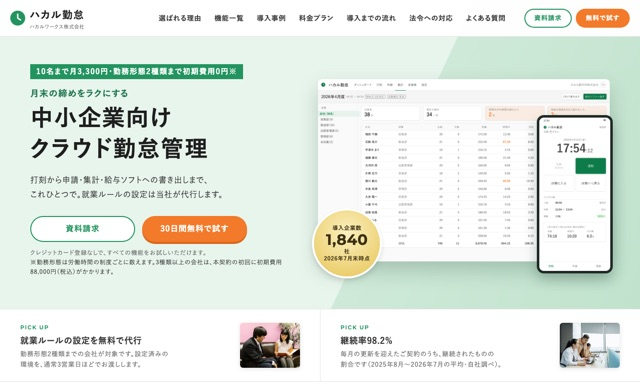
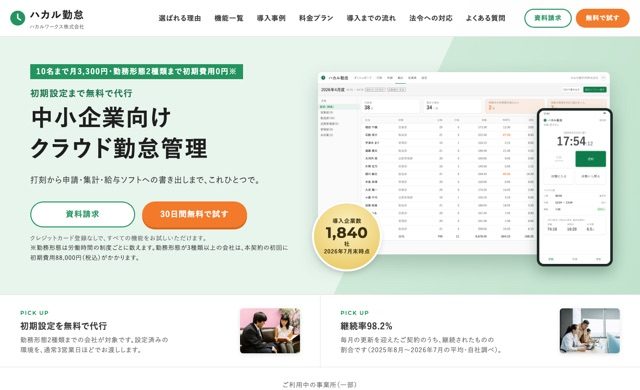
勤怠管理の見本を出し直す

diff --git a/lp-samples/sample4/index.html b/lp-samples/sample4/index.html
@@ -4,11 +4,11 @@
 <meta charset="UTF-8">
 <meta name="robots" content="noindex, nofollow">
 <meta name="viewport" content="width=device-width, initial-scale=1">
-<title>クラウド勤怠管理システム「ハカル勤怠」｜月末の締めをラクにする</title>
+<title>クラウド勤怠管理システム「ハカル勤怠」｜初期設定まで無料で代行</title>
 <meta name="description" content="中小企業向けのクラウド勤怠管理システム「ハカル勤怠」。打刻から申請・集計・給与ソフトへの書き出しまで、これひとつで。10名まで月3,300円、勤務形態2種類まで初期費用0円。30日間すべての機能を無料でお試しいただけます。">
 <meta property="og:type" content="website">
 <meta property="og:site_name" content="ハカル勤怠">
-<meta property="og:title" content="クラウド勤怠管理システム「ハカル勤怠」｜月末の締めをラクにする">
+<meta property="og:title" content="クラウド勤怠管理システム「ハカル勤怠」｜初期設定まで無料で代行">
 <meta property="og:description" content="打刻から申請・集計・給与ソフトへの書き出しまで。10名まで月3,300円、30日間の無料トライアルつき。">
 <meta name="twitter:card" content="summary_large_image">
 <link rel="icon" href="https://cdn.jsdelivr.net/npm/@fortawesome/fontawesome-free@6.7.2/svgs/solid/clock.svg" type="image/svg+xml">
@@ -125,7 +125,8 @@ ul,ol{padding:0;list-style:none}
 .solve__box li b{flex:none;display:flex;align-items:center;justify-content:center;width:52px;height:52px;border-radius:50%;background:var(--ink);font-size:14px;box-shadow:0 0 0 3px #fff}
 
 /* 選ばれる理由。写真と文を左右に振り、大きな番号を薄く敷く */
-.reason__item{display:grid;grid-template-columns:1fr 1fr;gap:60px;align-items:center}
+.reason__item{display:grid;grid-template-columns:5fr 6fr;gap:60px;align-items:center}
+.reason__item:nth-child(even){grid-template-columns:6fr 5fr}
 .reason__item+.reason__item{margin-top:90px}
 .reason__item:nth-child(even) .reason__media{order:2}
 .reason__media img{border-radius:10px;box-shadow:0 10px 26px rgba(0,0,0,.12)}
@@ -178,7 +179,7 @@ ul,ol{padding:0;list-style:none}
 .case__item p:not([class]){font-size:13px;color:var(--mute)}
 
 /* 料金 */
-.price{background:var(--main)}
+.price{background:var(--main-d)}
 .price .h2_ttl{color:#fff}
 .price .h2_ttl .sub_ttl{color:#d9f2e2}
 .price__box{position:relative;max-width:900px;margin:0 auto;padding:48px 50px 40px;background:#fff;border-radius:14px}
@@ -420,13 +421,13 @@ h1,h2,h3,blockquote,.solve__box li,.check li,.func__item p{word-break:auto-phras
   <div class="mv__inner">
     <div>
       <p class="mv__label"><span class="nw">10名</span>まで月3,300円・<span class="nw">勤務形態2種類まで初期費用0円※</span></p>
-      <h1><small>月末の締めをラクにする</small>中小企業向け<br><span class="nw">クラウド</span>勤怠管理</h1>
-      <p class="mv__lead">打刻から申請・集計・給与<span class="nw">ソフト</span>への書き出しまで、これひとつで。就業<span class="nw">ルール</span>の設定は当社が代行します。</p>
+      <h1><small>初期設定まで無料で代行</small>中小企業向け<br><span class="nw">クラウド</span>勤怠管理</h1>
+      <p class="mv__lead">打刻から申請・集計・給与<span class="nw">ソフト</span>への書き出しまで、これひとつで。</p>
       <div class="mv__btns">
         <a class="btn btn--line gtm-cta" href="#entry" data-kind="doc">資料請求</a>
         <a class="btn btn--cta gtm-cta" href="#entry" data-kind="trial">30日間無料で試す</a>
       </div>
-      <p class="mv__note"><span class="nw">クレジットカード</span>登録なしで、すべての機能をお試しいただけます。<br><span class="mv__terms">※勤務形態は労働時間の制度ごとに数えます。3種類以上の会社は、本契約の初回に初期費用<span class="nw">88,000円</span>（税込）がかかります。</span></p>
+      <p class="mv__note"><span class="nw">クレジットカード</span>登録なしで、すべての機能をお試しいただけます。<br><span class="mv__terms">※勤務形態は労働時間の制度ごとに数えます。勤務形態が3種類以上の会社は、本契約の初回に初期費用<span class="nw">88,000円</span>（税込）がかかります。</span></p>
     </div>
     <div class="mv__visual">
       <img class="mv__pc" src="img/app_pc.png" alt="従業員ごとの実働と時間外が並ぶ勤怠の集計画面" fetchpriority="high">
@@ -436,7 +437,7 @@ h1,h2,h3,blockquote,.solve__box li,.check li,.func__item p{word-break:auto-phras
   </div>
   <div class="pickup">
     <div class="pickup__item">
-      <div><small>PICK UP</small><h2>就業<span class="nw">ルール</span>の設定を無料で代行</h2><p>勤務形態2種類までの会社が対象です。設定済みの環境を、通常<span class="nw">3営業日</span>ほどでお渡しします。</p></div>
+      <div><small>PICK UP</small><h2>初期設定を無料で代行</h2><p>勤務形態2種類までの会社が対象です。設定済みの環境を、通常<span class="nw">3営業日</span>ほどでお渡しします。</p></div>
       <img src="img/pickup.jpg" alt="ソファでの書類の確認">
     </div>
     <div class="pickup__item">
@@ -459,8 +460,8 @@ h1,h2,h3,blockquote,.solve__box li,.check li,.func__item p{word-break:auto-phras
     <h2 class="h2_ttl">勤怠管理のお悩み</h2>
     <ul class="worry__list">
       <li class="worry__item scrollanime"><span class="worry__no"><small>悩み</small>01</span><p>毎月<span class="nw">3日間</span>かかる<br>集計作業</p><i class="fa-solid fa-hourglass-half" aria-hidden="true"></i></li>
-      <li class="worry__item scrollanime"><span class="worry__no"><small>悩み</small>02</span><p>部署ごとの<br>打刻方法の違い</p><i class="fa-solid fa-building-user" aria-hidden="true"></i></li>
-      <li class="worry__item scrollanime"><span class="worry__no"><small>悩み</small>03</span><p>36協定の<br>超過リスク</p><i class="fa-solid fa-gauge-high" aria-hidden="true"></i></li>
+      <li class="worry__item scrollanime"><span class="worry__no"><small>悩み</small>02</span><p>部署ごとに<span class="nw">バラバラ</span>な<br>打刻と集計</p><i class="fa-solid fa-building-user" aria-hidden="true"></i></li>
+      <li class="worry__item scrollanime"><span class="worry__no"><small>悩み</small>03</span><p>36協定に<br>違反するおそれ</p><i class="fa-solid fa-gauge-high" aria-hidden="true"></i></li>
     </ul>
   </div>
 </section>
@@ -502,8 +503,8 @@ h1,h2,h3,blockquote,.solve__box li,.check li,.func__item p{word-break:auto-phras
       <div class="reason__media"><img src="img/support.jpg" alt="モニター前の打ち合わせ" loading="lazy"></div>
       <div class="reason__body">
         <span class="reason__num" aria-hidden="true">03</span>
-        <h3>就業<span class="nw">ルール</span>の<em>設定代行</em></h3>
-        <p>就業規則を拝見し、<span class="nw">1か月</span>単位・<span class="nw">1年</span>単位の変形労働時間制や<span class="nw">フレックスタイム</span>制も、そのとおりに設定してお渡しします。<span class="nw">トライアル</span>期間中から、お客様の就業<span class="nw">ルール</span>でご利用いただけます。</p>
+        <h3>初期設定の<em>代行</em></h3>
+        <p>お送りいただいた就業規則に合わせて、<span class="nw">1か月</span>単位・<span class="nw">1年</span>単位の変形労働時間制や<span class="nw">フレックスタイム</span>制も集計できるよう設定してお渡しします。<span class="nw">トライアル</span>期間中から、この設定のままご利用いただけます。</p>
         <ul class="check"><li>変形労働時間制・<span class="nw">フレックスタイム</span>制</li><li>給与<span class="nw">ソフト</span>の取り込み形式に合わせた書き出し設定</li></ul>
       </div>
     </div>
@@ -526,9 +527,9 @@ h1,h2,h3,blockquote,.solve__box li,.check li,.func__item p{word-break:auto-phras
       <div class="func__item scrollanime"><i class="fa-solid fa-id-card" aria-hidden="true"></i><h3>打刻</h3><p><span class="nw">パソコン</span>、<span class="nw">スマートフォン</span>、交通系IC<span class="nw">カード</span>や社員証で打刻できます。</p></div>
       <div class="func__item scrollanime"><i class="fa-solid fa-calculator" aria-hidden="true"></i><h3>自動集計</h3><p>実働・時間外・深夜・休日の時間を、従業員ごとに集計します。</p></div>
       <div class="func__item scrollanime"><i class="fa-solid fa-circle-check" aria-hidden="true"></i><h3>申請・承認</h3><p>休暇と時間外労働を申請でき、打刻の修正も依頼できます。承認は管理画面から行えます。</p></div>
-      <div class="func__item scrollanime"><i class="fa-solid fa-file-export" aria-hidden="true"></i><h3>給与<span class="nw">ソフト</span>への書き出し</h3><p>CSVで出力します。列の並びと項目名を、お使いの給与<span class="nw">ソフト</span>に合わせて設定できます。</p></div>
-      <div class="func__item scrollanime"><i class="fa-solid fa-triangle-exclamation" aria-hidden="true"></i><h3>時間外が上限に近づいた従業員名の色分け</h3><p>上限までの残り時間に応じて、一覧の従業員名を色分けして表示します。変形労働時間制や自動車運転業務の上限にも対応します。</p></div>
-      <div class="func__item scrollanime"><i class="fa-solid fa-book" aria-hidden="true"></i><h3>年次有給休暇管理簿</h3><p>基準日・日数・時季を記載した管理簿を出力できます。</p></div>
+      <div class="func__item scrollanime"><i class="fa-solid fa-file-export" aria-hidden="true"></i><h3>給与<span class="nw">ソフト</span>への書き出し</h3><p>CSVで書き出します。列の並びと項目名を、お使いの給与<span class="nw">ソフト</span>に合わせて設定できます。</p></div>
+      <div class="func__item scrollanime"><i class="fa-solid fa-triangle-exclamation" aria-hidden="true"></i><h3>残業アラート</h3><p>月の時間外労働が上限に近づいた時点と超えた時点で、一覧の従業員の名前を色分けして表示します。変形労働時間制や自動車運転業務の上限にも対応します。</p></div>
+      <div class="func__item scrollanime"><i class="fa-solid fa-book" aria-hidden="true"></i><h3>年次有給休暇管理簿</h3><p>基準日・日数・時季を記載した管理簿を書き出せます。</p></div>
       <div class="func__item scrollanime"><i class="fa-solid fa-calendar-plus" aria-hidden="true"></i><h3>有給休暇の自動付与（<span class="nw">オプション</span>）</h3><p>入社日・勤続年数・出勤率から付与日数を計算し、比例付与にも対応します。</p></div>
       <div class="func__item scrollanime"><i class="fa-solid fa-calendar-week" aria-hidden="true"></i><h3><span class="nw">シフト</span>の作成（<span class="nw">オプション</span>）</h3><p>従業員の希望休を反映した<span class="nw">シフト</span>表を作成できます。</p></div>
     </div>
@@ -551,13 +552,13 @@ h1,h2,h3,blockquote,.solve__box li,.check li,.func__item p{word-break:auto-phras
   <div class="inner">
     <h2 class="h2_ttl"><span class="sub_ttl">CASE STUDY</span>導入事例</h2>
     <div class="case__item scrollanime">
-      <img src="img/office.jpg" alt="パソコン作業中の男性" loading="lazy">
+      <img src="img/office.jpg" alt="作業着姿の年配の男性" loading="lazy">
       <div>
         <span class="case__tag">製造業・従業員<span class="nw">30名</span></span>
-        <blockquote>締めが<span class="nw">3日</span>から<span class="nw">30分</span>になり、給与計算の確認に集中できるようになりました。</blockquote>
-        <p class="case__who">大井川金属工業株式会社 総務ご担当者様</p>
+        <blockquote>総務の締め作業が<span class="nw">3日</span>から<span class="nw">30分</span>になり、給与計算の確認に集中できるようになりました。</blockquote>
+        <p class="case__who">大井川金属工業株式会社 代表取締役様</p>
         <div class="case__ba"><div><span>導入前の締め作業</span><b>3<small>日</small></b></div><i>→</i><div class="after"><span>導入後</span><b>30<small>分</small></b></div></div>
-        <p><span class="nw">2026年3月</span>の実測。工場は交通系IC<span class="nw">カード</span>、事務所は<span class="nw">パソコン</span>で打刻。就業<span class="nw">ルール</span>の設定は当社が代行しました。削減できる時間は、会社の規模や勤務形態により異なります。</p>
+        <p><span class="nw">2026年3月</span>の実測。工場は交通系IC<span class="nw">カード</span>、事務所は<span class="nw">パソコン</span>で打刻。初期設定は当社が代行しました。削減できる時間は、会社の規模や勤務形態により異なります。</p>
       </div>
     </div>
     <div class="case__item scrollanime">
@@ -567,7 +568,7 @@ h1,h2,h3,blockquote,.solve__box li,.check li,.func__item p{word-break:auto-phras
         <blockquote>外回りの打刻を<span class="nw">スマートフォン</span>で済ませられるようになり、月末に訪問記録と勤怠を突き合わせる作業が<span class="nw">6時間</span>から<span class="nw">1時間</span>になりました。</blockquote>
         <p class="case__who">つばさ訪問介護株式会社 管理者様</p>
         <div class="case__ba"><div><span>導入前の突き合わせ</span><b>6<small>時間／月</small></b></div><i>→</i><div class="after"><span>導入後</span><b>1<small>時間／月</small></b></div></div>
-        <p><span class="nw">2026年5月</span>の実測。全員が<span class="nw">スマートフォン</span>の<span class="nw">アプリ</span>で打刻。有給休暇の自動付与を利用。実際の削減効果は、これまでの集計の仕方により異なります。</p>
+        <p><span class="nw">2026年5月</span>の実測。全員が<span class="nw">スマートフォン</span>の<span class="nw">アプリ</span>で打刻。有給休暇の自動付与を利用。削減できる時間は、これまでの集計の仕方により異なります。</p>
       </div>
     </div>
   </div>
@@ -586,11 +587,11 @@ h1,h2,h3,blockquote,.solve__box li,.check li,.func__item p{word-break:auto-phras
         <thead><tr><th scope="col">項目</th><th scope="col">金額（税込）</th><th scope="col">条件</th></tr></thead>
         <tbody>
           <tr><th scope="row"><span class="nw">11名</span>目以降のご利用</th><td><span class="nw">1名</span> <span class="nw">月330円</span></td><td><span class="nw">10名</span>を超えた人数分を基本料金に加算</td></tr>
-          <tr><th scope="row">有給休暇の自動付与</th><td><span class="nw">1名</span> <span class="nw">月110円</span></td><td>お使いになる場合のみ。ご利用の人数分</td></tr>
-          <tr><th scope="row"><span class="nw">シフト</span>の作成</th><td><span class="nw">1名</span> <span class="nw">月110円</span></td><td>お使いになる場合のみ。ご利用の人数分</td></tr>
+          <tr><th scope="row">有給休暇の自動付与</th><td><span class="nw">1名</span> <span class="nw">月110円</span></td><td>お使いになる場合のみ。ご利用の全員分</td></tr>
+          <tr><th scope="row"><span class="nw">シフト</span>の作成</th><td><span class="nw">1名</span> <span class="nw">月110円</span></td><td>お使いになる場合のみ。ご利用の全員分</td></tr>
           <tr><th scope="row">給与<span class="nw">ソフト</span>への書き出し</th><td><span class="nw">0円</span></td><td>基本料金の範囲内</td></tr>
           <tr><th scope="row">IC<span class="nw">カードリーダー</span></th><td>1拠点につき<span class="nw">1台</span>まで<span class="nw">0円</span></td><td>無償貸し出し。同じ拠点の<span class="nw">2台</span>目からは<span class="nw">1台</span> <span class="nw">月330円</span></td></tr>
-          <tr><th scope="row">初期費用（就業<span class="nw">ルール</span>の設定代行）</th><td><span class="nw">0円</span></td><td>※勤務形態は、雇用形態を問わず、固定時間制・<span class="nw">1か月</span>単位の変形労働時間制・<span class="nw">1年</span>単位の変形労働時間制・<span class="nw">フレックスタイム</span>制など、労働時間の制度ごとに数えます。3種類以上の場合は、本契約の初回に<span class="nw">88,000円</span>（税込）がかかります。</td></tr>
+          <tr><th scope="row">初期費用（初期設定の代行）</th><td><span class="nw">0円</span></td><td>※勤務形態は、雇用形態を問わず、固定時間制・<span class="nw">1か月</span>単位の変形労働時間制・<span class="nw">1年</span>単位の変形労働時間制・<span class="nw">フレックスタイム</span>制など、労働時間の制度ごとに数えます。3種類以上の場合は、本契約の初回に<span class="nw">88,000円</span>（税込）がかかります。</td></tr>
         </tbody>
       </table>
     </div>
@@ -599,7 +600,7 @@ h1,h2,h3,blockquote,.solve__box li,.check li,.func__item p{word-break:auto-phras
       <div><h3><span class="nw">30名</span>・全<span class="nw">オプション</span>利用</h3><b>月16,500<small>円</small></b><p>3,300円<span class="nw">＋20名</span>×<span class="nw">330円</span><span class="nw">＋30名</span>×<span class="nw">220円</span>（<span class="nw">オプション</span>2つで<span class="nw">1名</span><span class="nw">220円</span>）。</p></div>
       <div><h3><span class="nw">200名</span>・全<span class="nw">オプション</span>利用</h3><b>月110,000<small>円</small></b><p>3,300円<span class="nw">＋190名</span>×<span class="nw">330円</span><span class="nw">＋200名</span>×<span class="nw">220円</span>（<span class="nw">オプション</span>2つで<span class="nw">1名</span><span class="nw">220円</span>）。</p></div>
     </div>
-    <p class="price__fine">課金の対象となる人数は、その月に一度でも打刻した方の人数です。お支払い方法は、翌月初めの請求書払い（銀行振込）と<span class="nw">クレジットカード</span>払いからお選びいただけます。ご契約は<span class="nw">1か月</span>単位です。</p>
+    <p class="price__fine">課金の対象となる人数は、その月に一度でも打刻した方の人数です。お支払い方法は、請求書払い（銀行振込）と<span class="nw">クレジットカード</span>払いからお選びいただけます。請求書は翌月初めに発行し、お振り込みの期限はその月の末日です。ご契約は<span class="nw">1か月</span>単位です。</p>
   </div>
 </section>
 
@@ -607,12 +608,12 @@ h1,h2,h3,blockquote,.solve__box li,.check li,.func__item p{word-break:auto-phras
   <div class="inner">
     <h2 class="h2_ttl"><span class="sub_ttl">FLOW</span>導入までの流れ</h2>
     <div class="flow__list">
-      <div class="flow__item scrollanime"><p class="flow__step"><small>STEP</small><b>01</b></p><div><h3>お申し込み</h3><p>入力するのは会社名・お名前・<span class="nw">メールアドレス</span>・ご利用予定の人数です。営業日の17時までのお申し込みなら、その日のうちに管理画面の<span class="nw">ログイン</span>情報をお送りします。</p></div></div>
-      <div class="flow__item scrollanime"><p class="flow__step"><small>STEP</small><b>02</b></p><div><h3>就業<span class="nw">ルール</span>の設定代行</h3><p>就業規則を<span class="nw">PDF</span>形式で管理画面にアップロードしてください。通常<span class="nw">3営業日</span>ほどで、設定済みの環境をお渡しします。</p></div></div>
+      <div class="flow__item scrollanime"><p class="flow__step"><small>STEP</small><b>01</b></p><div><h3>お申し込み</h3><p>入力するのは会社名・お名前・<span class="nw">メールアドレス</span>・電話番号・ご利用予定の人数です。営業日の17時までのお申し込みなら、その日のうちに管理画面の<span class="nw">ログイン</span>情報をお送りします。</p></div></div>
+      <div class="flow__item scrollanime"><p class="flow__step"><small>STEP</small><b>02</b></p><div><h3>初期設定の代行</h3><p>就業規則を<span class="nw">PDF</span>形式で管理画面にアップロードしてください。就業規則がない場合は、雇用契約書や労働条件通知書をアップロードしてください。通常<span class="nw">3営業日</span>ほどで、設定済みの環境をお渡しします。</p></div></div>
       <p class="flow__pill">無料<span class="nw">トライアル</span>開始</p>
       <div class="flow__item scrollanime"><p class="flow__step"><small>STEP</small><b>03</b></p><div><h3>まず1部署で打刻開始</h3><p>締め日を<span class="nw">1回</span>またぐまで打刻を続けてみてください。締めの作業がどう変わるかを、<span class="nw">トライアル</span>の<span class="nw">30日</span>のうちに確かめられます。</p></div></div>
       <p class="flow__pill"><span class="nw">30日</span>目</p>
-      <div class="flow__item scrollanime"><p class="flow__step"><small>STEP</small><b>04</b></p><div><h3>本契約のお申し込み</h3><p>本契約は管理画面からお申し込みください。設定も打刻の記録も、そのまま引き継げます。<span class="nw">トライアル</span>期間の終了後に、自動で本契約に移行することはありません。お申し込みがなければ料金も初期費用もかからず、<span class="nw">トライアル</span>中に登録したデータは、終了後も<span class="nw">90日</span>間保持します。</p></div></div>
+      <div class="flow__item scrollanime"><p class="flow__step"><small>STEP</small><b>04</b></p><div><h3>本契約のお申し込み</h3><p>本契約は管理画面からお申し込みください。設定も打刻の記録も、そのまま引き継げます。<span class="nw">トライアル</span>期間の終了後に、自動で本契約に移行することはありません。お申し込みがなければ、料金も初期費用もかかりません。<span class="nw">トライアル</span>中に登録したデータは、終了後も<span class="nw">90日</span>間保持されます。</p></div></div>
     </div>
   </div>
 </section>
@@ -623,15 +624,15 @@ h1,h2,h3,blockquote,.solve__box li,.check li,.func__item p{word-break:auto-phras
     <div class="law__list">
       <div class="law__item scrollanime">
         <h3>労働時間の把握</h3>
-        <p>労働時間の状況を把握することは事業者の義務です。原則として、<span class="nw">タイムカード</span>や<span class="nw">パソコン</span>の使用時間の記録など、客観的な方法で記録する必要があります（労働安全衛生法66条の8の3、労働安全衛生規則52条の7の3第1項）。<span class="nw">ハカル</span>勤怠は打刻の日時を<span class="nw">サーバー</span>の時刻で記録し、打刻を修正したときは申請と承認の履歴を残します。</p>
+        <p>労働時間の状況を把握することは事業者の義務です。原則として、<span class="nw">タイムカード</span>や<span class="nw">パソコン</span>の使用時間の記録など、客観的な方法で記録する必要があります（労働安全衛生法66条の8の3、労働安全衛生規則52条の7の3第1項）。<span class="nw">ハカル</span>勤怠は打刻の日時を<span class="nw">サーバー</span>の時刻で記録します。打刻を修正した場合は、申請と承認の履歴が残ります。</p>
       </div>
       <div class="law__item scrollanime">
         <h3>記録の保存</h3>
-        <p>労働時間の状況の記録は、<span class="nw">3年</span>間の保存が求められます（労働安全衛生規則52条の7の3第2項）。出勤簿や<span class="nw">タイムカード</span>は労働基準法109条の「労働関係に関する重要な書類」に当たり、保存期間は<span class="nw">5年</span>、経過措置で当分の間は<span class="nw">3年</span>です（同法附則143条）。当社はいずれの記録も<span class="nw">5年</span>間保存します。</p>
+        <p>労働時間の状況の記録は、<span class="nw">3年</span>間の保存が求められます（労働安全衛生規則52条の7の3第2項）。出勤簿や<span class="nw">タイムカード</span>は労働基準法109条の「労働関係に関する重要な書類」に当たり、保存期間は<span class="nw">5年</span>、経過措置で当分の間は<span class="nw">3年</span>です（同法附則143条）。ご契約中は、いずれの記録も当社で<span class="nw">5年</span>間保存します。</p>
       </div>
       <div class="law__item scrollanime">
         <h3>時間外の上限</h3>
-        <p>時間外労働の上限は、36協定を締結したうえで原則として<span class="nw">月45時間</span>・年<span class="nw">360時間</span>です。特別条項付きの36協定を締結した場合も、時間外労働は年<span class="nw">720時間</span>以内です（休日労働は含みません）。これとは別に、時間外労働と休日労働の合計は単<span class="nw">月100時間</span>未満・<span class="nw">2〜6か月</span>平均<span class="nw">80時間</span>以内です。また、時間外労働が<span class="nw">月45時間</span>を超えてよいのは年<span class="nw">6か月</span>までです。</p><p>対象期間が<span class="nw">3か月</span>を超える<span class="nw">1年</span>単位の変形労働時間制では、原則の上限は<span class="nw">月42時間</span>・年<span class="nw">320時間</span>です。自動車運転の業務は、特別条項付きの36協定を締結した場合の上限が年<span class="nw">960時間</span>です（<span class="nw">2024年4月</span>から）。<span class="nw">月60時間</span>を超える時間外労働の割増賃金率は、中小企業も<span class="nw">2023年4月</span>から<span class="nw">50%</span>です。<span class="nw">ハカル</span>勤怠では、36協定の上限時間に近づいた従業員の名前を、一覧で色分けして表示します。</p>
+        <p>36協定を締結した場合の時間外労働の上限は、原則として<span class="nw">月45時間</span>・年<span class="nw">360時間</span>です。特別条項付きの36協定を締結した場合も、時間外労働は年<span class="nw">720時間</span>以内です（休日労働は含みません）。これとは別に、時間外労働と休日労働の合計は単<span class="nw">月100時間</span>未満・<span class="nw">2〜6か月</span>平均<span class="nw">80時間</span>以内です。また、時間外労働が<span class="nw">月45時間</span>を超えてよいのは年<span class="nw">6か月</span>までです。</p><p>対象期間が<span class="nw">3か月</span>を超える<span class="nw">1年</span>単位の変形労働時間制では、原則の上限は<span class="nw">月42時間</span>・年<span class="nw">320時間</span>です。自動車運転の業務は、特別条項付きの36協定を締結した場合の上限が年<span class="nw">960時間</span>です（<span class="nw">2024年4月</span>から）。<span class="nw">ハカル</span>勤怠では、36協定の上限時間に近づいた従業員の名前を、一覧で色分けして表示します。</p>
       </div>
     </div>
     <p class="law__note"><span class="nw">2026年9月</span>時点の条文にもとづいて記載しています。</p>
@@ -642,11 +643,11 @@ h1,h2,h3,blockquote,.solve__box li,.check li,.func__item p{word-break:auto-phras
   <div class="inner">
     <h2 class="h2_ttl"><span class="sub_ttl">FAQ</span>よくある質問</h2>
     <div class="faq__list">
-      <details class="faq__item"><summary>他社<span class="nw">システム</span>の<span class="nw">データ</span>移行はできますか？</summary><p>書き出した<span class="nw">ファイル</span>（CSVなど）をお送りいただければ、過去<span class="nw">5年</span>分まで無料で取り込みます。取り込める形式かどうかは、お送りいただいた<span class="nw">ファイル</span>を当社で確かめてご連絡します。</p></details>
+      <details class="faq__item"><summary>他社<span class="nw">システム</span>の<span class="nw">データ</span>移行はできますか？</summary><p>今お使いの<span class="nw">システム</span>から書き出した<span class="nw">ファイル</span>（CSVなど）をお送りいただければ、過去<span class="nw">5年</span>分まで無料で取り込みます。取り込める形式かどうかは、お送りいただいた<span class="nw">ファイル</span>を当社で確かめてご連絡します。</p></details>
       <details class="faq__item"><summary>給与<span class="nw">ソフト</span>との連携はできますか？</summary><p>取り込み形式をあらかじめ用意しているのは、弥生給与・freee人事労務・<span class="nw">マネーフォワード</span> <span class="nw">クラウド</span>給与・給与奉行<span class="nw">クラウド</span>・PCA給与・給与大臣・給料王の7つです（<span class="nw">2026年9月</span>時点）。この7つ以外の<span class="nw">ソフト</span>でも、CSVの取り込みができるものなら、書き出す列の並びと項目名を管理画面で組み替えて合わせられます。この書き出しの設定も、初回の設定代行にあわせて当社で行います。</p></details>
-      <details class="faq__item"><summary><span class="nw">データ</span>の保存場所と安全管理について教えてください。</summary><p>国内の<span class="nw">データセンター</span>に保存し、通信と保管<span class="nw">データ</span>を暗号化しています。ISO/IEC 27001（ISMS）の認証とプライバシーマークを取得しています。過去<span class="nw">12か月</span>の稼働率は<span class="nw">99.96%</span>です（<span class="nw">2026年7月</span>末時点・自社調べ）。障害が起きたときは状況と復旧の見込みを<span class="nw">メール</span>でお知らせします。</p></details>
-      <details class="faq__item"><summary>工場や外回りでも使えますか？</summary><p>ご利用いただけます。工場は交通系IC<span class="nw">カード</span>、外回りは<span class="nw">スマートフォン</span>の<span class="nw">アプリ</span>で打刻できます。<span class="nw">スマートフォン</span>で打刻した時の位置情報は、管理画面で確認できます。</p></details>
-      <details class="faq__item"><summary>IC<span class="nw">カードリーダー</span>は必要ですか？</summary><p>IC<span class="nw">カード</span>で打刻する拠点だけに必要です。<span class="nw">パソコン</span>のUSBにつなぐ機器を使います。IC<span class="nw">カード</span>は、交通系IC<span class="nw">カード</span>のほか、FeliCaやMIFAREの社員証が利用できます。貸し出しの料金は、料金プランに記載のとおりです。すでにIC<span class="nw">カードリーダー</span>をお持ちでしたら、型式をお知らせください。</p></details>
+      <details class="faq__item"><summary><span class="nw">データ</span>の保存場所と<span class="nw">安全管理について</span>教えてください。</summary><p>国内の<span class="nw">データセンター</span>に保存し、通信と保管<span class="nw">データ</span>を暗号化しています。ISO/IEC 27001（ISMS）の認証とプライバシーマークを取得しています。過去<span class="nw">12か月</span>の稼働率は<span class="nw">99.96%</span>です（<span class="nw">2026年7月</span>末時点・自社調べ）。障害が起きたときは状況と復旧の見込みを<span class="nw">メール</span>でお知らせします。</p></details>
+      <details class="faq__item"><summary>工場や外回りでも使えますか？</summary><p>ご利用いただけます。工場は交通系IC<span class="nw">カード</span>、外回りは<span class="nw">スマートフォン</span>の<span class="nw">アプリ</span>で打刻できます。<span class="nw">スマートフォン</span>で打刻したときの位置情報は、管理画面で確認できます。</p></details>
+      <details class="faq__item"><summary>IC<span class="nw">カードリーダー</span>は必要ですか？</summary><p>IC<span class="nw">カード</span>で打刻する拠点だけに必要です。打刻する場所の<span class="nw">パソコン</span>にUSBでつなぎ、交通系IC<span class="nw">カード</span>やFeliCa・MIFAREの社員証をかざして打刻します。貸し出しの料金は、料金プランに記載のとおりです。すでにIC<span class="nw">カードリーダー</span>をお持ちでしたら、型式をお知らせください。</p></details>
       <details class="faq__item"><summary>導入後の<span class="nw">サポート</span>体制はどのようになっていますか？</summary><p>運用開始後も追加費用なしで、操作方法や設定について、管理画面の<span class="nw">チャット</span>・<span class="nw">メール</span>・お電話でお問い合わせいただけます。受付時間は、平日9:00〜18:00です。</p></details>
     </div>
   </div>
@@ -657,7 +658,7 @@ h1,h2,h3,blockquote,.solve__box li,.check li,.func__item p{word-break:auto-phras
     <h2 class="h2_ttl"><span class="sub_ttl">NEWS</span>お知らせ</h2>
     <ul class="news__list">
       <li><time datetime="2026-08-12">2026.08.12</time><p><span class="nw">シフト</span>の作成で、従業員の希望休をそのまま取り込めるようになりました。</p></li>
-      <li><time datetime="2026-07-01">2026.07.01</time><p>年次有給休暇管理簿を<span class="nw">PDF</span>形式で出力できるようになりました。</p></li>
+      <li><time datetime="2026-07-01">2026.07.01</time><p>年次有給休暇管理簿を<span class="nw">PDF</span>形式で書き出せるようになりました。</p></li>
       <li><time datetime="2026-06-02">2026.06.02</time><p>打刻の画面を英語表示に切り替えられるようになりました。</p></li>
     </ul>
   </div>
@@ -685,8 +686,10 @@ h1,h2,h3,blockquote,.solve__box li,.check li,.func__item p{word-break:auto-phras
       <input id="f-name" type="text" autocomplete="name" required>
       <label for="f-mail">メールアドレス<span class="req">必須</span></label>
       <input id="f-mail" type="email" autocomplete="email" required>
-      <label for="f-size">ご利用予定の人数</label>
-      <select id="f-size"><option>1〜10名</option><option>11〜30名</option><option>31〜100名</option><option>101名以上</option></select>
+      <label for="f-tel">電話番号<span class="req">必須</span></label>
+      <input id="f-tel" type="tel" autocomplete="tel" required>
+      <label for="f-size">ご利用予定の人数<span class="req">必須</span></label>
+      <select id="f-size" required><option>1〜10名</option><option>11〜30名</option><option>31〜100名</option><option>101名以上</option></select>
       <label class="agree"><input type="checkbox" required><a href="#privacy">個人情報の取り扱い</a>に同意します</label>
       <button class="btn btn--cta gtm-cta" type="submit">この内容で申し込む</button>
       <p class="form__note">見本の<span class="nw">フォーム</span>のため、送信はされません。</p>
@@ -694,14 +697,14 @@ h1,h2,h3,blockquote,.solve__box li,.check li,.func__item p{word-break:auto-phras
     <details class="legal" id="privacy">
       <summary>個人情報の取り扱い</summary>
       <dl>
-        <div><dt>この<span class="nw">フォーム</span>でお預かりする情報</dt><dd>会社名・お名前・<span class="nw">メールアドレス</span>・ご利用予定の人数。資料の送付、<span class="nw">トライアル</span>環境のご用意、導入のご案内に使います</dd></div>
+        <div><dt>この<span class="nw">フォーム</span>でお預かりする情報</dt><dd>会社名・お名前・<span class="nw">メールアドレス</span>・電話番号・ご利用予定の人数</dd></div>
         <div><dt><span class="nw">サービス</span>でお預かりする情報</dt><dd>従業員の氏名・所属・打刻の記録（<span class="nw">スマートフォン</span>での打刻時に取得する位置情報を含む）と、ご担当者の連絡先</dd></div>
-        <div><dt>利用目的</dt><dd>勤怠の集計と書き出し、<span class="nw">サポート</span>のご連絡に使います</dd></div>
+        <div><dt>利用目的</dt><dd>この<span class="nw">フォーム</span>でお預かりする情報は、資料の送付、<span class="nw">トライアル</span>環境のご用意、導入のご案内に使います。<span class="nw">サービス</span>でお預かりする情報は、勤怠の集計と書き出し、<span class="nw">サポート</span>のご連絡に使います</dd></div>
         <div><dt>保存先と委託</dt><dd>国内の<span class="nw">データセンター</span>で管理し、通信と保管<span class="nw">データ</span>を暗号化しています。<span class="nw">データセンター</span>の運用は国内の事業者に委託し、委託先にも同じ管理を求めます</dd></div>
         <div><dt>第三者認証</dt><dd>情報<span class="nw">セキュリティ</span>の国際規格ISO/IEC 27001（ISMS）の認証を<span class="nw">2024年</span>に、プライバシーマークを<span class="nw">2023年</span>に取得しています</dd></div>
         <div><dt>第三者への提供</dt><dd>法令にもとづく場合を除き、行いません</dd></div>
         <div><dt>開示・訂正・削除</dt><dd>下記の窓口へお申し出ください。ご本人であることを確認のうえ、<span class="nw">10営業日</span>以内にお答えします</dd></div>
-        <div><dt>保存期間</dt><dd>打刻の記録の保存年数は、<a href="#law">法令への対応</a>に記載しています。お申し込みの情報は、ご契約に至らなかった場合、お申し込みから<span class="nw">90日</span>で消去します。ご解約後の扱いは、<a href="#terms">利用規約の要点</a>に記載しています</dd></div>
+        <div><dt>保存期間</dt><dd>打刻の記録の保存年数は、<a href="#law">法令への対応</a>に記載しています。お申し込みの情報は、ご契約に至らなかった場合、<span class="nw">トライアル</span>の終了から<span class="nw">90日</span>で消去します。資料請求のみの場合は、お申し込みから<span class="nw">90日</span>で消去します。ご解約後の扱いは、<a href="#terms">利用規約の要点</a>に記載しています</dd></div>
         <div><dt>窓口</dt><dd><span class="nw">ハカルワークス</span>株式会社 個人情報お問い合わせ窓口 東京都千代田区○○0-0-0（架空の住所です）03-0000-0000</dd></div>
       </dl>
     </details>
@@ -711,7 +714,7 @@ h1,h2,h3,blockquote,.solve__box li,.check li,.func__item p{word-break:auto-phras
         <div><dt>ご契約</dt><dd><span class="nw">1か月</span>単位のご契約で、解約のお申し出がない限り翌月へ更新されます</dd></div>
         <div><dt>解約</dt><dd>管理画面からお申し出ください。解約は翌月から適用となり、お申し出のあった月の末日までご利用いただけます</dd></div>
         <div><dt>料金の改定</dt><dd>単価を改定する場合は、<span class="nw">3か月</span>前に<span class="nw">メール</span>でお知らせします</dd></div>
-        <div><dt><span class="nw">データ</span></dt><dd>ご解約時は全期間の<span class="nw">データ</span>をCSVで書き出せます。<span class="nw">データ</span>はご解約の翌月末に消去します</dd></div>
+        <div><dt><span class="nw">データ</span></dt><dd>ご解約時は全期間の<span class="nw">データ</span>をCSVで書き出せます。<span class="nw">データ</span>はご解約の翌月末に消去します。法令で保存が求められる記録は、消去される前に書き出して保存してください</dd></div>
         <div><dt>全文</dt><dd>お申し込みの画面で、利用規約の全文をご確認ください</dd></div>
       </dl>
     </details>
@@ -722,7 +725,7 @@ h1,h2,h3,blockquote,.solve__box li,.check li,.func__item p{word-break:auto-phras
         <div><dt>代表者</dt><dd>代表取締役 ○○ ○○（架空の氏名です）</dd></div>
         <div><dt>所在地</dt><dd>東京都千代田区○○0-0-0（架空の住所です）</dd></div>
         <div><dt>設立</dt><dd><span class="nw">2016年4月</span></dd></div>
-        <div><dt>事業内容</dt><dd><span class="nw">クラウド</span>勤怠管理<span class="nw">サービス</span>「<span class="nw">ハカル</span>勤怠」の開発と提供、就業<span class="nw">ルール</span>の設定代行</dd></div>
+        <div><dt>事業内容</dt><dd><span class="nw">クラウド</span>勤怠管理<span class="nw">サービス</span>「<span class="nw">ハカル</span>勤怠」の開発と提供、初期設定の代行</dd></div>
         <div><dt>電話</dt><dd>03-0000-0000（平日9:00〜18:00）</dd></div>
       </dl>
     </details>

diff --git a/lp-samples/sample4/img/CREDITS.md b/lp-samples/sample4/img/CREDITS.md
@@ -32,7 +32,7 @@ CC BYは表示が条件なので、実案件で流用する時は下の表示を
 | support.jpg | 選ばれる理由の03（モニター前の打ち合わせ） | Unsplash | Mimi Thian | Unsplash License | https://unsplash.com/photos/90u9nnhZwts |
 | care.jpg | 導入事例2（小道でスマートフォンを操作する女性） | Unsplash | cal gao | Unsplash License | https://unsplash.com/photos/RpRH161AWcI |
 | clock.jpg | 選ばれる理由の02（USB接続のICカードリーダー） | ウィキメディア・コモンズ | RuinDig/Yuki Uchida | CC BY 4.0 | https://commons.wikimedia.org/wiki/File:PaSoRi_RC-S380_sony.jpg |
-| office.jpg | 導入事例1（パソコン作業中の男性） | Unsplash | phyo min | Unsplash License | https://unsplash.com/photos/03TT9QfihTo |
+| office.jpg | 導入事例1（作業着姿の年配の男性） | Unsplash | Jesse Plum | Unsplash License | https://unsplash.com/photos/cSJ1frlz5EM |
 
 `pickup.jpg`・`team.jpg`・`care.jpg`・`office.jpg` の4枚は、枠の縦横比（4:3）に合わせて切り出してから縮小しました。`support.jpg` と `clock.jpg` は切り出していません。
 
